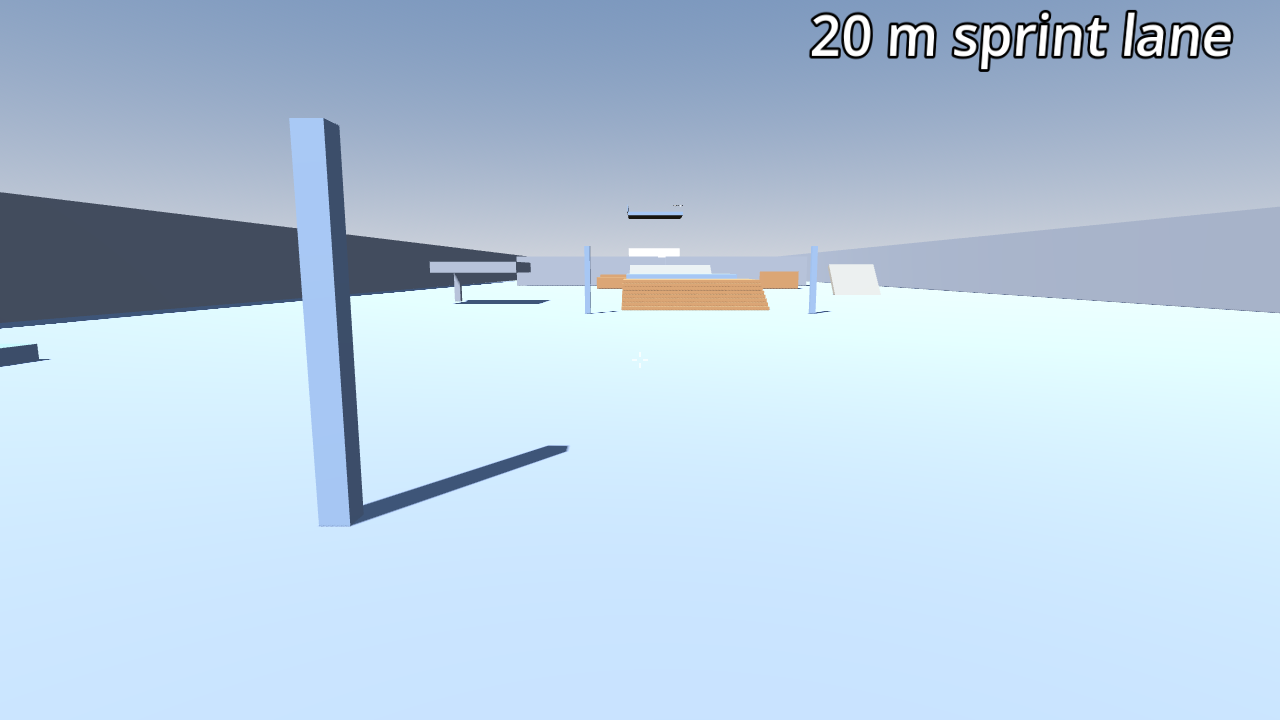
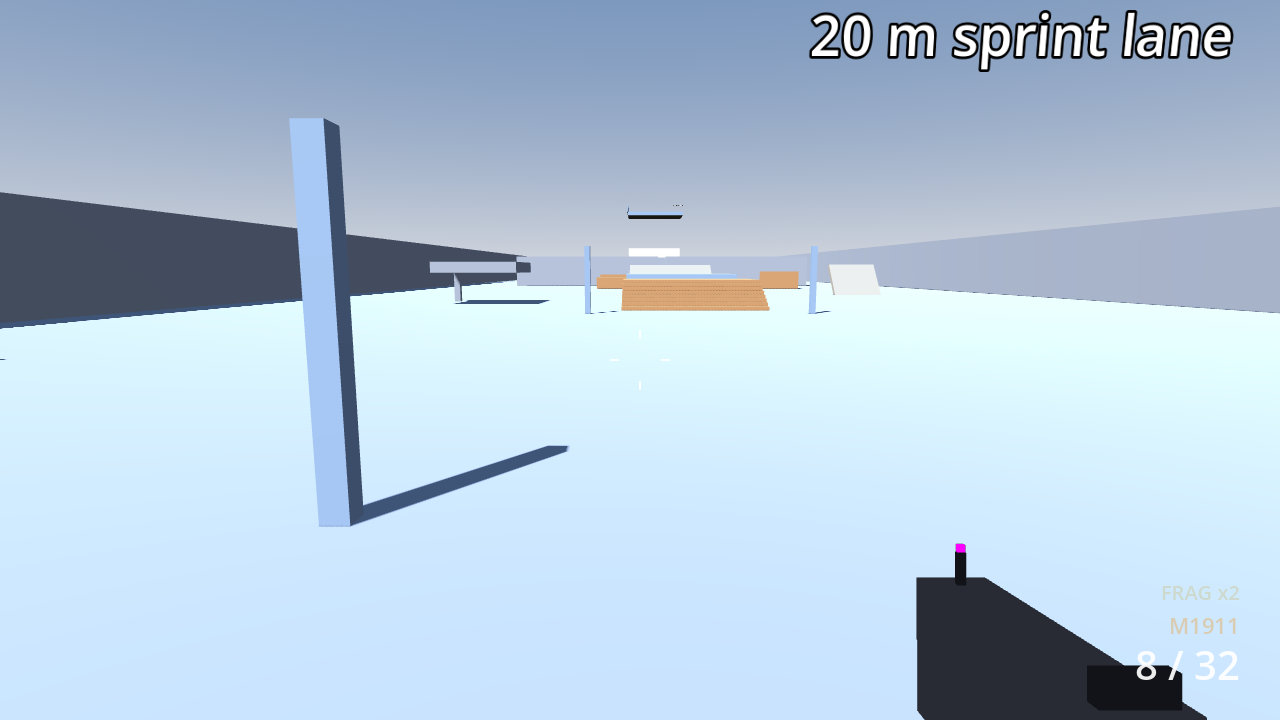
step3: docs — progress, session report, decisions D-021..D-026, tuning log, screenshots
Claude-Session: https://claude.ai/code/session_01Q3ikUJPBSKjDPqsFVnh1eu

diff --git a/docs/PROGRESS.md b/docs/PROGRESS.md
@@ -11,11 +11,11 @@
 
 | Field | Value |
 |---|---|
-| Current milestone | Step 2 complete — no milestone reached yet (M0 after Step 3) |
-| Next step to start | **Step 3 — Weapon framework & gunplay feel** |
+| Current milestone | **M0** (Step 3 complete: move + shoot in the gun range, solo and co-op; LAN play with a friend = human check) |
+| Next step to start | **Step 4 — Art direction, asset pipeline & look development** |
 | Engine version | Godot **4.7.2-stable** (`tools/godot_version.txt`); GUT 9.7.1; gdtoolkit 4.5.0 |
-| Last updated | 2026-11-11 (Step 2 session) |
-| Main branch playable? | Test maps only (sandbox, movement course; first-person movement, solo + co-op); work lives on branch `claude/project-lazarus` |
+| Last updated | 2026-11-11 (Step 3 session) |
+| Main branch playable? | Test maps only (sandbox, movement course, gun range; first-person movement + 4 weapons, knife, frags; solo + co-op); work lives on branch `claude/project-lazarus` |
 
 ---
 
@@ -26,7 +26,7 @@
 | 0 | Planning & design documents | **Complete** | — | 2026-11-11 |
 | 1 | Foundation, toolchain & networked skeleton | **Complete** | — | 2026-11-11 |
 | 2 | Player controller & movement feel | **Complete** (AC-2.7 awaiting human) | — | 2026-11-11 |
-| 3 | Weapon framework & gunplay feel (→ M0) | Not started | — | — |
+| 3 | Weapon framework & gunplay feel (→ M0) | **Complete** (AC-3.7 awaiting human) | — | 2026-11-11 |
 | 4 | Art direction, asset pipeline & look development | Not started | 4A / 4B | — |
 | 5 | Zombie AI, animation & networked enemies | Not started | 5A / 5B | — |
 | 6 | Core survival loop (→ M1 First Playable) | Not started | 6A / 6B | — |
@@ -69,14 +69,14 @@
 - [H] AC-2.7 [HUMAN] Movement feel review
 
 ### Step 3 — Weapons
-- [ ] AC-3.1 Damage/falloff/penetration/RPM unit tests
-- [ ] AC-3.2 Reload state machine edge cases
-- [ ] AC-3.3 Range integration: per-hitzone damage, penetration count
-- [ ] AC-3.4 Net hit claims + host validation
-- [ ] AC-3.5 No viewmodel clipping; ADS alignment
-- [ ] AC-3.6 Pools/decals capped, no memory growth
-- [ ] AC-3.7 [HUMAN] Gunplay feel review
-- [ ] **M0 reached**
+- [x] AC-3.1 Damage/falloff/penetration/RPM unit tests (`test_damage_model.gd`, `test_weapon_fire_rate.gd`, `test_weapon_definitions.gd`)
+- [x] AC-3.2 Reload state machine edge cases (`test_weapon_reload.gd`)
+- [x] AC-3.3 Range integration: per-hitzone damage, penetration count (`test_gun_range.gd`)
+- [x] AC-3.4 Net hit claims + host validation (`net_tests.sh weapons`, `test_hit_validator.gd`)
+- [x] AC-3.5 No viewmodel clipping; ADS alignment (`visual_tests.sh viewmodel_ads` at 1920×1080: 0.0 px error ×4; `test_weapon_presentation.gd`)
+- [x] AC-3.6 Pools/decals capped, no memory growth (`test_mp40_60s_pools_capped_no_growth`)
+- [H] AC-3.7 [HUMAN] Gunplay feel review
+- [x] **M0 reached** (automated: move + shoot in the gun range, 2 peers at 100 ms; [H] LAN session with a friend)
 
 ### Step 4 — Art direction & pipeline
 - [ ] AC-4.1 Scripted kit, correct collision, grid snapping
@@ -207,6 +207,12 @@ Record automated results (command, pass/fail counts, key numbers) and human veri
 
 | Date | Step | Test / check | Result | Notes |
 |---|---|---|---|---|
+| 2026-11-11 | 3 | `tools/check.sh` | Pass | 19 scripts / 107 tests / 2068 asserts |
+| 2026-11-11 | 3 | `tools/run_tests.sh integration` | Pass | 5 scripts / 28 tests. Per-hitzone damage exact for M1911 / MP40 / Kar98k at 10 m (head ×3 / ×4 / ×5, neck ×2, torso, limb ×0.75), MP40 24.0 at 40 m (60%), Model 37 pellets 4–8 hits at 5 m each = 130 × zone; penetration lane: Kar98k 4 dummies (400 / 300 / 225 / 168.75), MP40 and M1911 exactly 1; wood wall passes at ×0.75; knife lunge 2.3 m kills the 150 HP dummy, respawn 3 s; frag splash kills it; cooked frag explodes in hand at 3.5 s; ADS sight error < 1 px (1080p) for all 4; MP40 60+ s full-auto: decals 128 (cap), impacts 32, shells 40, tracers 32, flashes 12 — node growth 0, objects +17, static memory +49 KiB over 50 s |
+| 2026-11-11 | 3 | Unit: fire rate (60 Hz ticks, 100 shots) | Pass | Average interval within ±1 ms of 60/RPM for M1911 (semi, clicking), MP40 (auto), Model 37 (pump), Kar98k (bolt) |
+| 2026-11-11 | 3 | `tools/net_tests.sh` (solo, replication, host_loss, speedhack, course, **weapons**) | Pass | weapons @ 100 ms ±20 ms, 2% loss: hit marker in the same physics frame as the shot; Dummy_Kill 150 → 70 replicated to the client, kill replicated; host rejected forged claims DEAD_TARGET 1, RANGE 2 (claimed 300 m; knife at 12 m), RATE 3 (5 ms apart), 0 rejections during legit play; client saw the host's relayed fire burst |
+| 2026-11-11 | 3 | `tools/visual_tests.sh` (damage_direction, **viewmodel_ads**) | Pass | 1920×1080 opengl3: ADS sight centroid error (0.0, 0.0) px for all 4 weapons; viewmodel covers 20.8% of the lower-right quadrant while standing 0.4 m from a wall; frames `docs/screenshots/viewmodel_*.png` |
+| 2026-11-11 | 3 | `tools/run_sim.sh smoke` (sandbox, gun_range), `tools/screenshot.sh gun_range` | Pass | `docs/screenshots/gun_range_shot_*.png` |
 | 2026-11-11 | 2 | `tools/check.sh` | Pass | 13 scripts / 64 tests / 1395 asserts |
 | 2026-11-11 | 2 | `tools/run_tests.sh integration` (`--fixed-fps 60`) | Pass | 3 scripts / 16 tests. Walk 4.60, sprint 6.60, crouch 2.40 m/s (±3%); sprint 4.0 s, recharge 3.8 s (0.8 + 3.0, ±0.1); apex 1.0 m; slide 0.7 s + 1.0 s cooldown; bot course from all 4 spawns in 28.0 s (2 mantles, 1 slide, elevator, 5 m drops, no damage); 1.5 m ledge not mantleable; 1.5 m ceiling keeps crouch; slide ends crouched in the 1.3 m tunnel; shuttle carries the player; 10,000 random frames: 0 static overlaps, 0 fall-through (also checked with 7 other seeds) |
 | 2026-11-11 | 2 | `tools/net_tests.sh` (solo, replication, host_loss, speedhack, course) | Pass | NetSim 100 ms ±20 ms, 2% loss. Replication: remote sprint-circle max error 0.007–0.015 m, max per-frame step 0.15–0.17 m (no snapping), 0 corrections for a legit client; host damage 40 from the client's left → client HP 60, indicator at ~105°, regen to 100. Speed hack ×3: 4 corrections in 3 s, validated speed 8.6–9.1 m/s (limit 10.5) while the client tried ~14 m/s. Client course run: completed in 27.9 s, RTT ~210 ms, 0 corrections |
@@ -229,6 +235,7 @@ Record automated results (command, pass/fail counts, key numbers) and human veri
 
 | Date | Step | Peers | NetSim profile | KB/s per client | Desyncs | Notes |
 |---|---|---|---|---|---|---|
+| 2026-11-11 | 3 | 2 (loopback) | 100 ms ±20 ms, 2% loss | ~1–2 while firing (MP40: 9 reliable shot claims/s batched per frame, ≈60 B each + 41 B unreliable fire burst relayed per shot) | 0 | Claims carry no damage; host recomputes |
 | 2026-11-11 | 2 | 2 (loopback) | 100 ms ±20 ms, 2% loss | ~1 (player state 30 Hz: pos, yaw, pitch, flags, seq; snapshots 20 Hz) | 0 | Replication error max 0.015 m; 0 false corrections |
 | 2026-11-11 | 1 | 2 (loopback) | 100 ms ±20 ms, 2% loss | < 1 (capsule state 30 Hz + snapshots 20 Hz, float32 positions) | 0 | Replication error max 0.016 m; quantization deferred to Step 5 |
 
@@ -240,6 +247,8 @@ Record automated results (command, pass/fail counts, key numbers) and human veri
 |---|---|---|---|---|
 | I-002 | S4 | 2 | Headless `--fixed-fps` integration runs sometimes log "Jolt Physics job system exceeded the maximum number of jobs … Waiting for jobs" (engine warning; physics continues). Not seen in real-time runs | Marked benign in `tests/integration/player_test_helper.gd`; re-check after engine upgrades |
 | I-003 | S3 | 2 | Test-map moving platforms (course elevator/shuttle) are simulated locally per peer, so a remote player riding one is seen on the host's copy of the platform only approximately | Step 8 makes traversal machines host-driven (D-020) |
+| I-004 | S4 | 3 | Viewmodel and impact particles render with the Compatibility renderer in the container only; the Forward+ look (lighting of the viewmodel viewport, particle sizes) is unverified | Human check with AC-3.7; Step 4 look-dev |
+| I-005 | S3 | 3 | Frag grenades are simulated on every peer; a client's cosmetic copy can rest in a slightly different spot than the host's authoritative one (the explosion is shown at the host's position) | Acceptable for co-op; revisit with Step 9 projectiles |
 | I-001 | S4 | 1 | `tools/net_tests.sh` failed once (output not captured) while it was being tuned; 21 later consecutive runs passed. Possible rare timing flake in the multi-process tests | Watch CI; logs are kept in `.test-results/net/` and uploaded by CI on failure |
 
 Severity: **S1** crash / data loss / progress-blocking · **S2** major feature broken · **S3** minor feature issue / visual bug · **S4** polish.
@@ -253,11 +262,18 @@ Severity: **S1** crash / data loss / progress-blocking · **S2** major feature b
 | Downed state (last stand) | Step 6 | Step 2 provides the hook: at 0 HP the host restores the player after 3 s (placeholder) |
 | `NetId` entity registry + reliable spawn/despawn | Step 5 | First needed for zombies; player avatars are keyed by peer id |
 | Snapshot quantization | Step 5 | Bandwidth is negligible with ≤ 4 capsules |
+| Full `ProjectileBehavior` (launchers, crossbow, Ray Pistol) | Step 9 | Plan scope: stub interface now (`core/weapons/behaviors/projectile_behavior.gd`) |
+| Authored viewmodel/arms models and animation clips | Step 4 (first model) / Step 9 | Greybox models + code-built AnimationPlayer clips now (`GreyboxGun`, `ViewmodelAnimations`); `WeaponDefinition.viewmodel_scene` takes a real scene |
+| Recorded weapon audio | Step 9 / 15 | Synthesized per-weapon placeholders (`WeaponAudio`), distinct per weapon |
+| Tactical / placeable slots, Pack Mule third slot | Steps 9–10 | `WeaponInventory.slot_count` is config-driven; lethal (frag) implemented |
 
 ## Proposed design changes (awaiting human decision)
 
 | Date | Proposed by (step) | Change | Rationale | Decision |
 |---|---|---|---|---|
+| 2026-11-11 | 3 | Frag damage "250 + splash 1200 at centre (r = 5 m)" interpreted as linear splash from 1200 at the centre to 250 at the 5 m edge; own frag deals up to 60 to the thrower (§3.2) | The table is ambiguous; this keeps both numbers meaningful | Agent decision (reversible in `frag.tres`) |
+| 2026-11-11 | 3 | Sprinting does not cancel a reload (the reload continues while running); weapon switch and melee cancel it (ammo-in rule applies) | AC-3.2 asks for "behaves as specified" without a spec; this is the friendlier classic-Zombies-like choice | Agent decision |
+| 2026-11-11 | 3 | Thin props (wood, sheet metal, tagged `thin_prop`) pass bullets with −25% damage per prop (max 2) | GAME_DESIGN §4.2 allows thin-prop penetration without a number | Agent decision |
 | 2026-11-11 | 1 | Work is implemented on branch `claude/project-lazarus` (created from the planning branch `claude/lazarus-dev-roadmap-h093ya`, since `main` holds no plan), one cloud session per step, with a PR into `main` after the final step | Owner's instruction for sequential cloud sessions | Owner instruction |
 
 ---
@@ -277,6 +293,7 @@ Severity: **S1** crash / data loss / progress-blocking · **S2** major feature b
 | Any | Monitor Git LFS storage/bandwidth quota | Recurring |
 | Step 1 | Quick desktop check: `godot --path game`, Solo, press `~` (console: try `help`, `net_status`, Tab completion, Up/Down history), F3 overlay; then `tools/run_coop_local.sh 2 --windowed` and walk both capsules | Open |
 | Step 1 | Confirm the first GitHub Actions run of `.github/workflows/ci.yml` is green (Actions tab) | Open |
+| Step 3 | AC-3.7 gunplay feel review + M0 LAN check (steps in `docs/sessions/2026-11-11_step-3.md`); log `wtune` changes in the GAME_DESIGN tuning log | Open |
 | Step 2 | AC-2.7 movement feel review on the movement course (steps in `docs/sessions/2026-11-11_step-2.md`); record any `tune` changes in the GAME_DESIGN tuning log | Open |
 
 ---
@@ -290,3 +307,4 @@ Each session adds a row and a report file `docs/sessions/YYYY-MM-DD_step-N[-chec
 | 2026-11-11 | 0 | Planning: architecture, roadmap, game design, map design, tracker, agent guide | (planning commit) |
 | 2026-11-11 | 1 | Godot 4.7.2 project, autoloads, Net layer v1 (Offline/ENet, NetSim, clock sync, uid), console + overlay, sandbox with replicated capsules, tool scripts, CI | [2026-11-11_step-1.md](sessions/2026-11-11_step-1.md) |
 | 2026-11-11 | 2 | PlayerCharacter (motor, camera rig, health + damage HUD, footsteps), PlayerTuning, movement course, host movement validation, health replication, bot/random drivers, integration + net + visual tests | [2026-11-11_step-2.md](sessions/2026-11-11_step-2.md) |
+| 2026-11-11 | 3 | Weapon framework: WeaponDefinition/Runtime, hitscan/pellet/melee behaviors (+ projectile stub), inventory + frags, viewmodel (own camera/layer, procedural layers, clips), pooled FX, weapon HUD, Hurtbox/HitTarget/TargetRegistry, HitValidator + WeaponSync networking, 4 weapons + knife + frag, gun range, unit/integration/net/visual tests | [2026-11-11_step-3.md](sessions/2026-11-11_step-3.md) |

diff --git a/docs/sessions/2026-11-11_step-3.md b/docs/sessions/2026-11-11_step-3.md
@@ -1,0 +1,58 @@
+# Session report — 2026-11-11 — Step 3: Weapon framework & gunplay feel
+
+## Goal
+Build the complete, data-driven and networked weapon system with four representative weapons (M1911, MP40, Model 37 pump, Kar98k), knife melee and cookable frags: runtime state machine, behaviors, inventory, a separate-layer viewmodel with procedural layers and animation clips, spread/recoil, pooled feedback, host-validated hit claims, a gun range and tests — reaching milestone M0 (move + shoot with a friend).
+
+## Completed
+- **Data:** `WeaponDefinition` (`core/weapons/weapon_definition.gd`): class, fire mode, RPM, damage, pellets, hitzone multipliers, falloff, penetration, mag/reserve, partial/empty reload with ammo-in points, per-shell reload, handling times, hip/ADS/move spread + bloom, Curve2D recoil pattern + randomness + recovery, explosive/lethal and melee fields, viewmodel/presentation and placeholder-audio parameters. Definitions: `content/weapons/{m1911,mp40,model37,kar98k,knife,frag}/*.tres` (numbers match GAME_DESIGN §4; unit-tested). `WeaponCatalog` (lookup + network index).
+- **WeaponRuntime** state machine: holstered / raising / idle / reloading / lowering / melee / sprint; sub-frame fire timing (exact average RPM), semi-auto click buffer, burst support, auto-reload, dry fire, partial/empty reload with ammo-in and cancel, per-shell pump reload (trigger stops it), ADS blend, sprint-out delay, melee interrupt, bloom and the consecutive-shot recoil index.
+- **Behaviors** (strategy): `HitscanBehavior` (penetration −25%/target, thin wood/metal props −25%), `PelletBehavior`, `MeleeBehavior` (cone + LOS + lunge), `ProjectileBehavior` stub (Step 9). `Ballistics` (seeded spread so observers replay shots, ray walk), `DamageModel` (falloff, zones, penetration, splash, melee).
+- **Inventory:** 2 primary slots (config-driven count), switch by keys 1–3 / wheel / gamepad Y with lower + raise times, replace-held-when-full, knife (V), frag (G: hold to cook, release to throw, explodes in hand after 3.5 s).
+- **Viewmodel:** transparent SubViewport camera rendering only layer 2 with its own FOV (D-024); `GreyboxGun` models (pistol / smg / shotgun / scoped rifle) with Mag, Action, Muzzle, Eject and Sight markers; `ViewmodelAnimations` clips (draw, holster, fire incl. pump/bolt cycle, reload partial/empty or shell start/insert/end, sprint loop, melee) with reload sounds on method tracks; procedural spring recoil, mouse-lag sway, footstep-synced bob, ADS alignment, landing kick, sprint pose and Kar98k breathing scope sway (moves the aim via `CameraRig.aim_offset`).
+- **Feel & feedback:** recoil patterns move the view with recovery, camera punch (`CameraRig.add_punch`), FOV zoom in ADS; `WeaponFx` rings (D-025): muzzle flash (mesh + light, ~2 frames), shells (rigid bodies, 1.6 s), moving tracers, per-surface impact particles (`ImpactLibrary`: concrete, metal, wood, snow, flesh, gravel, tile), 128 decals, explosions; `WeaponHud`: crosshair gap = spread cone, hit / headshot / kill markers, ammo, weapon name, frag count, reload / no-ammo hints; `WeaponAudio`: layered (mech / body / tail) synthesized fire sounds distinct per weapon, reload / pump / bolt / shell / raise, dry fire, hit / headshot / kill, melee, frag, impacts per surface.
+- **Damage pipeline:** `Hurtbox` (layer 3, zone), `HitTarget` (host health, indestructible option, respawn), `TargetDummy` (humanoid, hit flash, debug damage numbers, host-clock moving track), `TargetRegistry` (deterministic ids, health replication, late join — D-023), `DamageInfo`, `HitValidator` (D-022).
+- **Networking:** `WeaponSync` (D-021): batched reliable claims, host validation + damage, unreliable fire bursts replayed by observers (third-person weapon, flash, spatial audio, tracers, impacts), ammo-in reports + host ammo mirror, host-authoritative loadouts (`_wloadout`, starting weapons from `MapDefinition.starting_weapons`), switch relay, frag throw relay + host explosion (D-026), debug cheats.
+- **Gun range** `maps/_test/gun_range.tscn` (map id `gun_range`, loadout M1911 + MP40): dummies at 5/10/20/40 m, 150 HP killable dummy, moving dummy track, 4-dummy penetration lane, concrete / wood / metal / snow / flesh walls (wood + metal thin props), markers for tests, 3 screenshot shots.
+- **Console:** `give`, `weapons`, `weapon_info`, `ammo`, `infinite_ammo`, `damage_numbers`, `wtune`, `recoil`, `spread`, `dummy_reset`, `hit_stats`.
+- **Player hooks:** `PlayerInputFrame` reload / melee / lethal / switch fields, `MotorComponent.lunge()` + weapon move-speed multiplier, `FootstepComponent.stride_phase()`, `DamageHud.show_crosshair`, screenshot shots hide first-person overlays.
+- **Tools:** `tools/net_tests.sh weapons`; `tools/visual_tests.sh` now runs several rendered tests (`damage_direction`, `viewmodel_ads` at 1920×1080).
+
+## Acceptance criteria
+| AC | Status | Evidence |
+|---|---|---|
+| AC-3.1 | met | `test_damage_model.gd` (falloff, zones, penetration for all 4), `test_weapon_fire_rate.gd` (avg interval within ±1 ms of 60/RPM over 100 shots, all 4), `test_weapon_definitions.gd` (GAME_DESIGN table) |
+| AC-3.2 | met | `test_weapon_reload.gd`: cancel before/after ammo-in, empty reserve, full mag, partial reserve, swap before/after ammo-in, sprint during reload (continues), melee interrupt, shell reload insert/stop/cancel, raise blocks fire, ADS time |
+| AC-3.3 | met | `test_gun_range.gd`: exact per-zone damage for M1911 / MP40 / Kar98k at 10 m, MP40 falloff at 40 m, Model 37 pellets per zone, penetration lane Kar98k = 4 dummies, MP40 / M1911 = 1, wood wall ×0.75, knife lunge kill, frag splash kill, cooked frag in hand |
+| AC-3.4 | met | `net_tests.sh weapons` (100 ms ±20 ms, 2% loss): marker same physics frame as the shot (frame 206/206), host-applied damage replicated (150 → 70, kill), forged claims rejected: dead target, range ×2, rate ×3; 0 rejections for legit play. Unit: `test_hit_validator.gd` |
+| AC-3.5 | met | `visual_tests.sh viewmodel_ads`: ADS sight centroid error (0.0, 0.0) px at 1920×1080 for all 4; viewmodel still drawn 0.4 m from a wall (20.8% of the lower-right quadrant changes when hidden); `test_weapon_presentation.gd` (layers, numeric projection < 1 px) |
+| AC-3.6 | met | `test_mp40_60s_pools_capped_no_growth`: 64 s of MP40 fire (587 shots): decals 128 (cap), impacts 32, shells 40, tracers 32, flashes 12; over the last 50 s node growth 0, objects +17, static memory +49 KiB |
+| AC-3.7 | [H] | Human gunplay review (below) |
+| M0 | met (automated) / [H] LAN | 2-peer gun-range session with shooting at 100 ms; a real LAN session with a friend is a human check |
+
+## Tests run
+- `tools/check.sh` → pass (19 unit scripts, 107 tests, 2068 asserts; lint, format, boundary)
+- `tools/run_tests.sh integration` → pass (5 scripts, 28 tests)
+- `tools/net_tests.sh` → solo, replication, host_loss, speedhack, course, weapons all pass
+- `tools/visual_tests.sh` → damage_direction + viewmodel_ads pass; `tools/run_sim.sh smoke` (sandbox, gun_range) pass; `tools/screenshot.sh gun_range` → 3 PNGs
+
+## Decisions & deviations
+- D-021 … D-026 in ARCHITECTURE §14 (weapon protocol, rate/range validation, target ids, viewmodel viewport, FX rings, frag simulation).
+- Design interpretations logged in PROGRESS *Proposed design changes* and the GAME_DESIGN tuning log: frag splash 1200 → 250 linear over 5 m with ≤ 60 self-damage; sprinting doesn't cancel reloads; thin props −25%; semi-auto click buffer 0.1 s; all new per-weapon numbers.
+- The host's own shots are trusted (not rate/range-validated); every client claim is validated.
+- Animation clips are generated in code (not hand-authored files) so they always match the definition's timings; real authored clips/models plug in via `WeaponDefinition.viewmodel_scene` later.
+- Found and fixed during testing: iron sights covered the sight dot in ADS (sights now stay below the sight line); metallic greybox rendered black in the viewmodel viewport (no sky to reflect); AnimationMixer reset un-keyed tracks to a stale holster pose (every clip now keys the full pose).
+
+## Known issues / follow-ups
+- I-004 (S4): viewmodel/particle look verified only with the Compatibility renderer.
+- I-005 (S3): cosmetic frag copies may rest slightly differently from the host's.
+- Deferrals: full projectiles (Step 9), authored models/clips (Steps 4/9), recorded audio (Steps 9/15), tactical/placeable slots (Steps 9–10).
+
+## Human verification needed
+1. `godot --path game -- --solo --map=gun_range` (click to capture the mouse). Keys: LMB fire, RMB aim, R reload, 1/2 or wheel switch, V knife, hold G to cook a frag and release to throw, `~` console.
+2. Fire each weapon (`give model37`, `give kar98k`; two slots, so `give` replaces the held weapon): does each feel and sound distinct? Are hit / headshot / kill markers and sounds satisfying? Is recoil readable (MP40 sustained fire, Model 37 kick, Kar98k bolt cycle, scope sway)?
+3. Try `damage_numbers on`, shoot the 5–40 m dummies, the penetration lane (Kar98k through all four) and the wood wall; knife the 150 HP dummy from ~2 m (lunge).
+4. Tune with `wtune <param> <value>` (e.g. `wtune spread_hip 1.8`, `wtune view_kick 0.5`, `wtune recoil_recovery 0.8`) and `setting video fov 100`; record changes in GAME_DESIGN §19.
+5. M0 with a friend: host `godot --path game -- --host --map=gun_range`, friend `-- --join=<ip>`; shoot the same dummies, watch each other's tracers/flash and hear the shots. Locally: `tools/run_coop_local.sh 2 --windowed --netsim=100,20,0.02 --map=gun_range`.
+
+## Next recommended session
+Step 4 — Art direction, asset pipeline & look development. The first proper weapon model can replace a greybox via `WeaponDefinition.viewmodel_scene` (the scene needs Mag, Action, Muzzle, Eject and Sight nodes); check the viewmodel viewport lighting under Forward+ (I-004).

diff --git a/PROGRESS.md b/PROGRESS.md
@@ -14,10 +14,19 @@ Short hand-off file for the **sequential cloud sessions** implementing `docs/DEV
 |---|---|---|
 | 1 Foundation, toolchain & networked skeleton | ✅ Done (2026-11-11) | Godot 4.7.2 project, autoloads, Net v1 (Offline/ENet, NetSim, clock sync, uid), console/overlay, sandbox with replicated capsules, tools, CI |
 | 2 Player controller & movement feel | ✅ Done (2026-11-11) | PlayerCharacter + components, PlayerTuning, movement course, MovementValidator (D-016), health events (D-017), integration/net/visual tests; AC-2.7 feel review awaits the owner |
-| 3 Weapon framework & gunplay feel | ⏭ Next | |
-| 4 – 16 | Not started | |
+| 3 Weapon framework & gunplay feel | ✅ Done (2026-11-11) | WeaponDefinition/Runtime, hitscan/pellet/melee (+ projectile stub), inventory + frags, viewmodel (SubViewport layer 2), FX rings, weapon HUD, HitTarget/TargetRegistry, HitValidator + WeaponSync (D-021…D-026), 4 weapons + knife + frag, gun range; M0 reached (AC-3.7 feel review awaits the owner) |
+| 4 Art direction, asset pipeline & look development | ⏭ Next | |
+| 5 – 16 | Not started | |
 
-## Context for the next session (Step 3)
+## Context for the next session (Step 4)
+- Weapons: `game/core/weapons/` (definition, runtime, behaviors/, controller, viewmodel, viewmodel_animations, greybox_gun, weapon_sync, hit_validator, target_registry, hit_target, target_dummy, hurtbox, grenade), data in `content/weapons/<id>/<id>.tres`. A real weapon model plugs in through `WeaponDefinition.viewmodel_scene`; the scene must have `Mag`, `Action`, `Muzzle`, `Eject`, `Sight` nodes (Sight = point that lands on screen centre in ADS) and use render layer 2 (`Viewmodel.LAYER`).
+- Viewmodel renders in a transparent SubViewport with its own Environment (ambient only; Compatibility renderer verified, Forward+ not — I-004). The main camera culls layer 2. Screenshot shots hide CanvasLayers in group `hide_for_shots`.
+- Hit targets: anything weapons damage extends `HitTarget` and adds `Hurtbox`es (physics layer 3); map-placed targets get ids from `TargetRegistry.scan` (tree order); zombies (Step 5) need host-assigned ids. Damage applies only on the host via `TargetRegistry.host_damage`.
+- FX: `WeaponFx` rings (decals 128 …), impact look per surface in `core/vfx/impact_library.gd` (surface from `SurfaceTags`; `flesh` added). Step 4 materials should set PhysicsMaterial names / `surface` meta so impacts and footsteps pick the right surface.
+- Tests: `tests/integration/weapon_test_helper.gd` (standalone gun range rig), `tools/net_tests.sh weapons`, `tools/visual_tests.sh [out_dir] [damage_direction|viewmodel_ads]`.
+- Console (Step 3): `give`, `weapons`, `weapon_info`, `ammo`, `infinite_ammo`, `damage_numbers`, `wtune`, `recoil`, `spread`, `dummy_reset`, `hit_stats`.
+
+## Context from Step 2
 - Player: `game/core/player/player_character.tscn` (+ `motor_component.gd`, `camera_rig.gd`, `health_component.gd`, `footstep_component.gd`), tuning in `content/player/player_tuning.tres`. Input arrives as `PlayerInputFrame` (`fire`, `aim` already captured; sprint ends on fire/ADS). The camera is top-level (`player.camera`, horizontal FOV); add the viewmodel camera/layer there. `camera_rig.add_trauma()` for recoil shake. ADS sensitivity multiplier is applied when `aim` is held.
 - Host damage API: `Match.current.players.damage_player(peer_id, amount, source_pos, type)`; hit claims should follow the same host-authoritative pattern. Test arenas live in `maps/_test/` (the course builder in `movement_course.gd` shows the box/waypoint helpers).
 - Tests: integration suites run with `--fixed-fps 60`; use `tests/integration/player_test_helper.gd` (`spawn_player`, `step(self, n)` which also ignores the benign Jolt job warning). Net pair tests: `pair_test` in `tools/net_tests.sh`. Visual checks: `tools/visual_tests.sh`.

diff --git a/docs/ARCHITECTURE.md b/docs/ARCHITECTURE.md
@@ -376,4 +376,11 @@ The main menu's map select lists every `MapDefinition` found under `maps/` (excl
 | D-019 | 2026-11-11 | Integration tests run headless with `--fixed-fps 60` (`tools/run_tests.sh integration`) | Deterministic 1/60 s frames, much faster than real time (10k-frame soak in ~3 s) |
 | D-020 | 2026-11-11 | Moving platforms on test maps are local per peer (shared clock / local rider sensor); host-driven traversal machines (gondola, freight lift) come in Step 8 | Movement is owner-authoritative, so local platforms carry the owner correctly; validator budget includes platform speed headroom |
 
+| D-021 | 2026-11-11 | Weapon protocol (`WeaponSync`): owners send reliable shot claims batched per physics frame (`_wshots`: weapon, seq, sender host-clock time, origin, aim, spread, seed, hits as [target, zone, distance, penetration index, props]) — **no damage amounts**; the host validates (`HitValidator`), recomputes damage from the `WeaponDefinition` and applies it through `TargetRegistry`, then relays an unreliable fire burst (seed + aim) that observers replay cosmetically. The host's own shots skip validation (it is the authority) | Favor-the-shooter with nothing for a client to inflate; one code path for solo, host and clients |
+| D-022 | 2026-11-11 | Rate validation = sender-stamped spacing ≥ 60/RPM − max(15%, 35 ms) plus an arrival-time credit bucket (0.6 s of shots, min 3); hits also check alive target, range ≤ max_range + 2.5 m from the shooter's last validated position, penetration index, rough world LOS (thin props pass). Ammo is mirrored on the host from shot claims and ammo-in reports (mag + reserve may never grow) | No false positives at 100 ms ±20 ms, 2% loss; forged rate/range/dead claims rejected (net test) |
+| D-023 | 2026-11-11 | Map-placed `HitTarget`s get ids from a tree-order scan on every peer (`TargetRegistry.scan`), no messages; dynamic targets (zombies) will use host-assigned ids (Step 5 entity registry). Health changes broadcast reliably; late joiners get `_targets_full` | Deterministic map build on all peers |
+| D-024 | 2026-11-11 | First-person weapons render in a transparent `SubViewport` (sharing the `World3D`) whose camera sees only render layer 2 "viewmodel", composited below the HUD; the world camera culls layer 2. ADS alignment puts the gun's `Sight` marker on the camera axis | Plan scope 4: own FOV, never clips into walls (visual test) |
+| D-025 | 2026-11-11 | Shot feedback uses fixed-capacity recycling rings (`FxRing`: decals 128, impacts 32, shells 40, tracers 32, flashes 12) instead of grow-on-demand pools | Hard caps → flat memory under sustained fire (AC-3.6) |
+| D-026 | 2026-11-11 | Frags are simulated on every peer from the throw (origin, velocity, fuse left); only the host's copy explodes, applies splash and broadcasts `_wexplode` | Physics-based bounce stays responsive locally; damage stays host-authoritative |
+
 *(Agents append new rows; never delete old ones — supersede them.)*

diff --git a/docs/GAME_DESIGN.md b/docs/GAME_DESIGN.md
@@ -492,3 +492,7 @@ Video presets (Low/Medium/High/Ultra + individual: resolution scale/FSR, shadows
 | 2026-11-11 | 0 | (initial values) | — | Planning baseline |
 | 2026-11-11 | 2 | Values not specified in §3.1 (new, in `content/player/player_tuning.tres`) | — → gravity 20 m/s², stop speed 1.5 m/s, coyote 0.1 s, jump buffer 0.12 s, slide end speed 3.0 m/s, slide steer 2 rad/s, mantle 0.32 s, eye height 1.62 / 0.95 (crouch) / 0.80 (slide) m, bob 1.8 Hz × 0.045 m, strafe tilt 1.2°, pitch limit 89°, shake max 3°, gamepad look 220°/s, deadzone 0.15, curve 2.0; host validation 10.5 m/s horizontal, 12 m/s up, 4 m teleport, 1.5 m slack | Step 2 controller needed concrete values; all live-tunable with `tune` and pending the AC-2.7 feel review |
 | 2026-11-11 | 2 | Sprint restart rule | — → after exhausting stamina, sprint must be released and needs ≥ 10% stamina to restart | Prevents sprint stutter when holding Shift at 0 stamina |
+| 2026-11-11 | 3 | Weapon values not given in §4 (new, in `content/weapons/<id>/<id>.tres`) | — → falloff full/min range (m) and min %: M1911 12/30/60%, MP40 15/35/60%, Model 37 6/18/30%, Kar98k 40/100/80%; reload partial/empty (ammo-in): M1911 1.6 (1.15) / 2.0 (1.35) s, MP40 2.2 (1.5) / 2.8 (1.9) s, Kar98k 2.6 (1.9) / 3.0 (2.3) s, Model 37 per shell 0.4 + 0.5/shell + 0.45 s; raise/lower: 0.35/0.25, 0.45/0.3, 0.5/0.35, 0.6/0.4 s; ADS 0.15 / 0.22 / 0.25 / 0.32 s (Kar98k scope zoom ×0.35 FOV); hip spread 1.6 / 2.2 / 1.5 (aim cone) / 4.0°, Model 37 pellet cone 4°; recoil ≈1.5° / 0.55° per shot / 4.5° / 5° vertical; neck ×2.0 (Model 37 ×1.25); knife reach 1.1 m + 1.5 m lunge in a 35° cone | Step 3 needed concrete values; all live-tunable with `wtune`, pending the AC-3.7 feel review |
+| 2026-11-11 | 3 | Frag damage model | "250 + splash 1200 at centre" → linear splash 1200 (centre) to 250 (5 m edge); thrower takes up to 60 | See PROGRESS *Proposed design changes* |
+| 2026-11-11 | 3 | Thin-prop penetration | — → −25% damage per wood / sheet-metal prop, max 2 props | §4.2 had no number |
+| 2026-11-11 | 3 | Reload / fire rules | — → sprinting doesn't cancel a reload; a semi-auto click up to 0.1 s early is buffered | Feel decisions (Step 3 report) |

diff --git a/docs/ASSET_LICENSES.md b/docs/ASSET_LICENSES.md
@@ -7,4 +7,4 @@ Every third-party file in the repository is listed here (AGENT_GUIDE rule 8). If
 | `game/addons/gut/` | GUT — Godot Unit Test addon v9.7.1 (test tooling only, not shipped in exports) | https://github.com/bitwes/Gut (tag v9.7.1) | Butch Wesley and contributors | MIT (`game/addons/gut/LICENSE.md`) | 1 |
 | *(engine)* | Godot Engine 4.7.2-stable (not vendored; downloaded by `tools/install_godot.sh`) | https://godotengine.org | Godot Engine contributors | MIT | 1 |
 
-Generated placeholders (no third-party source): placeholder UI tones are synthesized at runtime in `core/autoload/audio.gd`; sandbox geometry uses Godot primitive meshes.
+Generated placeholders (no third-party source): placeholder UI tones are synthesized at runtime in `core/autoload/audio.gd`; sandbox geometry uses Godot primitive meshes. Step 3: weapon, impact, grenade and hit sounds are synthesized at runtime (`core/audio/weapon_audio.gd`); greybox weapon models are built from primitives (`core/weapons/greybox_gun.gd`); the decal texture is generated in code (`core/vfx/weapon_fx.gd`). No third-party assets were added.
